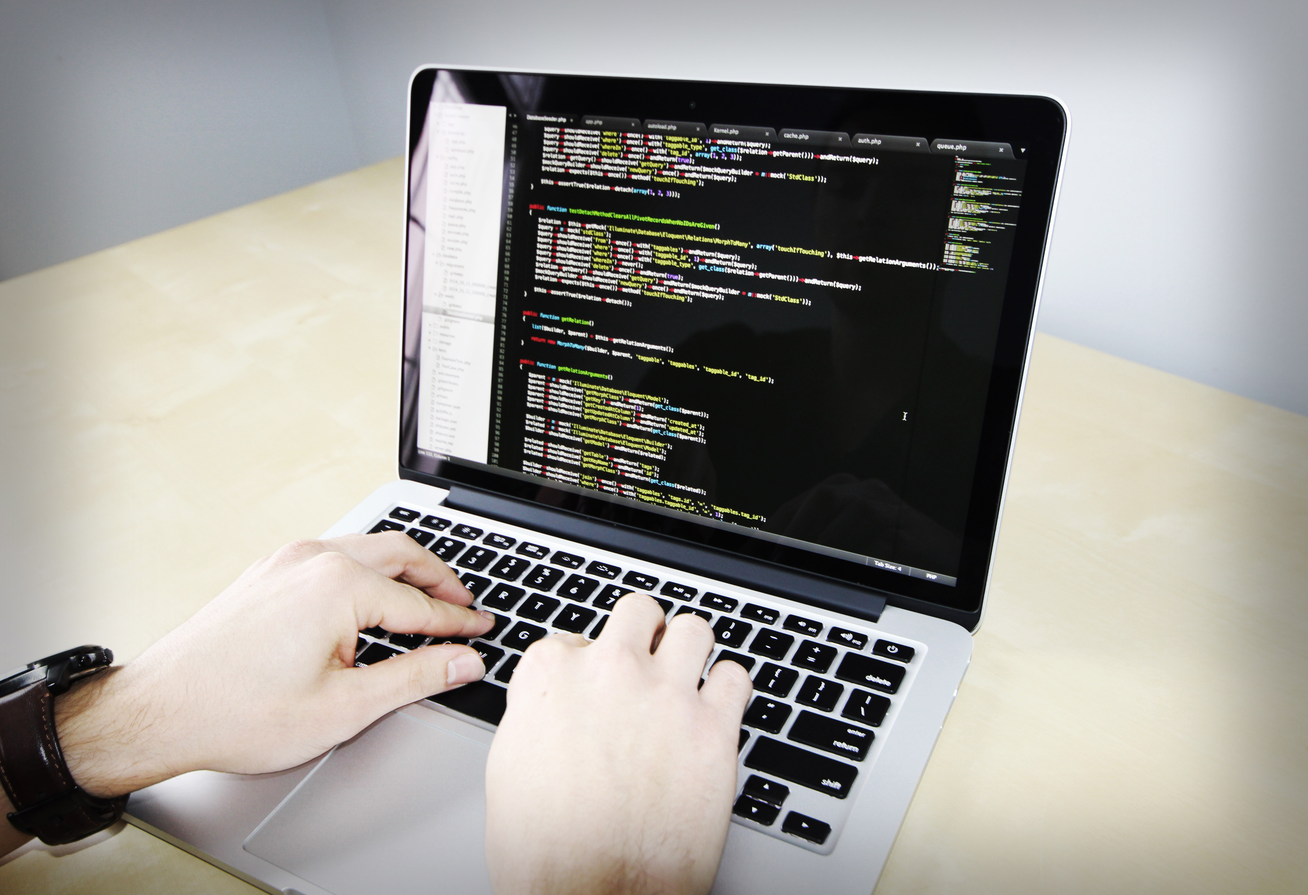
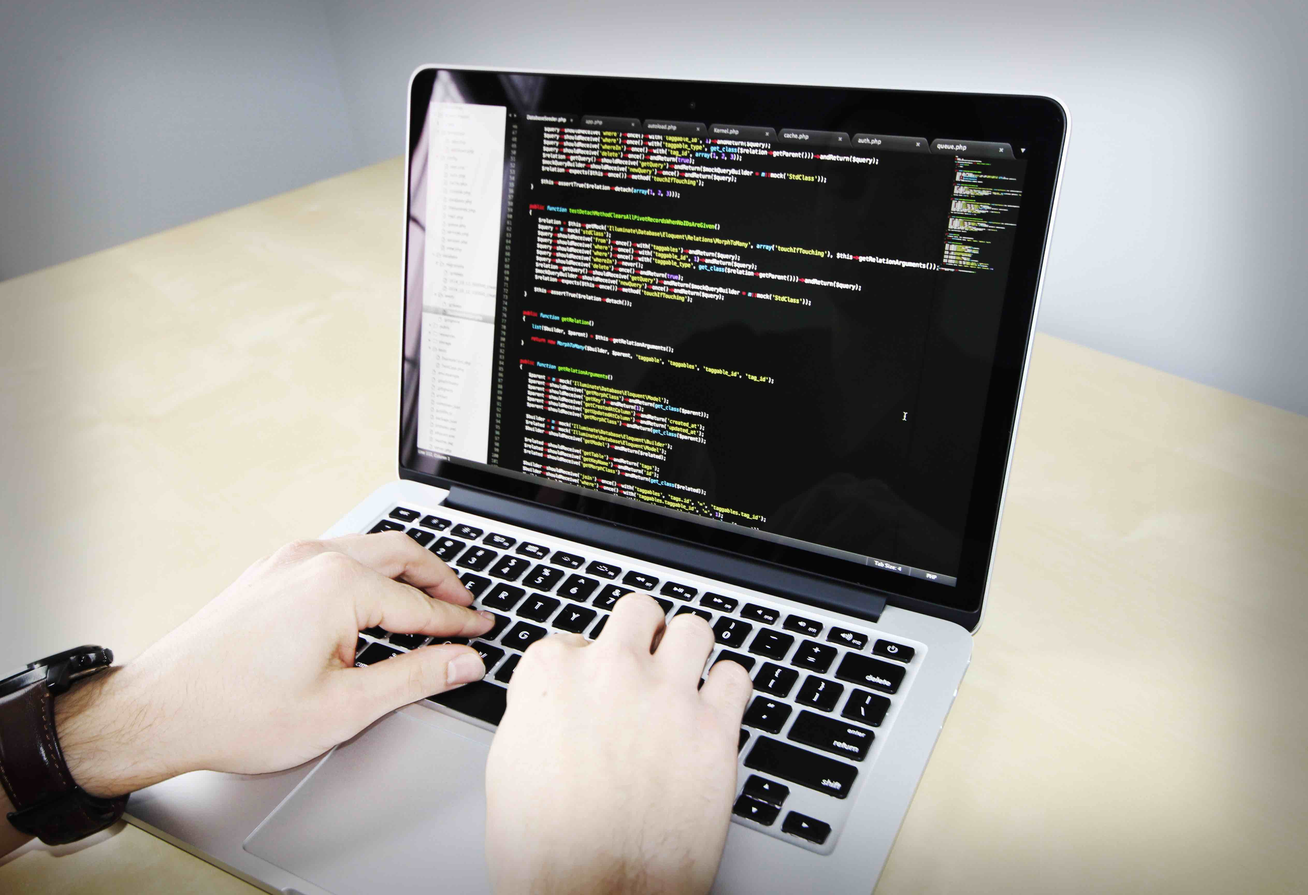
Minimize size of bg images, fixes md listing with showdown, fixes in web book

Changed region(s): [[0.4662, 0.4375, 0.5284, 0.5], [0.4973, 0.5312, 0.5284, 0.5625]]

diff --git a/webbook.html b/webbook.html
@@ -66,6 +66,16 @@
   ga('send', 'pageview');
 
 </script>
+<style>
+ul li {
+   list-style-type: disc;
+   list-style-position: inside;
+}
+ol li {
+   list-style-type: decimal;
+   list-style-position: inside;
+}
+</style>
 </head>
 
 
@@ -105,8 +115,8 @@
         <li><a href="index.html#poll">Poll</a></li>
         <li><a href="index.html#offerings">Offerings</a></li>
         <li><a href="index.html#contact">Contact</a></li>
-        <li><a href="webbook.html">About</a></li>
-        <li><a href="webbook.html">Web Book</a></li>
+        <li><a href="webbook.html#1">About</a></li>
+        <li><a href="webbook.html#1">Web Book</a></li>
         <li><a href="ecosystem.html">Ecosystem &amp; Docs</a></li>
         <li><a href="releasenotes.html">Releases</a></li>
         <li><a href="https://www.surveymonkey.com/r/VLGKQBL" target="_blank">Survey*</a></li>
@@ -119,14 +129,14 @@
 
   <div class="container">
       <div class="row">
-        <div class="col-md-3">
+          <div class="col-md-3">
           <ul class="nav nav-pills nav-stacked" id="menu">
-            <li id="link1"><a href="#">What is S-CASE</a></li>
-            <li id="link2"><a href="#">Getting started</a></li>
-            <li id="link3"><a href="#">Requirements Modeling</a></li>
-            <li id="link4"><a href="#">Web Service Composition</a></li>
-            <li id="link5"><a href="#">Code Generation</a></li>
-            <li id="link6"><a href="#">Deployment</a></li>
+            <li id="link1"><a href="#1">What is S-CASE</a></li>
+            <li id="link2"><a href="#2">Getting started</a></li>
+            <li id="link3"><a href="#3">Requirements Modeling</a></li>
+            <li id="link4"><a href="#4">Web Service Composition</a></li>
+            <li id="link5"><a href="#5">Code Generation</a></li>
+            <li id="link6"><a href="#6">Deployment</a></li>
           </ul>
         </div>
         <div class="col-md-9 main">
@@ -192,7 +202,7 @@
   }
 
   hideContentDivs();
-  $('#page1').show();
+  $("#page"+window.location.hash.substr(1)).show();
   </script>
   <!-- END SUPPORT FOR MARKDOWN -->
 </section>

diff --git a/js/zerif.js b/js/zerif.js
@@ -6,13 +6,13 @@ $.vegas('slideshow', {
   backgrounds:[
     { src:'images/backgrounds/bg1.jpg', fade:1000 },
     { src:'images/backgrounds/bg2.jpg', fade:1000 },
-    { src:'images/backgrounds/bg3.jpg', fade:1000 }
+    { src:'images/backgrounds/bg1.jpg', fade:1000 }
   ]
 });
-      
-   
+
+
 /* =================================
-   LOADER                     
+   LOADER
 =================================== */
 // makes sure the whole site is loaded
 jQuery(window).load(function() {
@@ -47,14 +47,14 @@ $(document).ready(function() {
     scrollThreshold: 0.5,
     filter: ':not(.external)'
   });
-  
-  // Sticky Header - http://jqueryfordesigners.com/fixed-floating-elements/         
+
+  // Sticky Header - http://jqueryfordesigners.com/fixed-floating-elements/
   var top = $('#main-nav').offset().top - parseFloat($('#main-nav').css('margin-top').replace(/auto/, 0));
-  
+
   $(window).scroll(function (event) {
     // what the y position of the scroll is
     var y = $(this).scrollTop();
-    
+
     // whether that's below the form
     if (y >= top) {
       // if so, ad the fixed class
@@ -64,7 +64,7 @@ $(document).ready(function() {
       $('#main-nav').removeClass('fixed');
     }
   });
-  
+
 });
 
 /*---------------------------------------*/
@@ -114,7 +114,7 @@ var scrollAnimationTime = 1200,
         }, scrollAnimationTime, scrollAnimation, function () {
             window.location.hash = target;
         });
-    });   
+    });
 
 
 /* =================================
@@ -204,8 +204,8 @@ $(document).ready(function(){
     $(window).scroll(function() {
       var yPos = -($window.scrollTop() / $bgobj.data('speed'));
       var coords = '50% '+ yPos + 'px';
-      $bgobj.css({ 
-        backgroundPosition: coords 
+      $bgobj.css({
+        backgroundPosition: coords
       });
     });
   });
@@ -256,6 +256,3 @@ $(".skill2").knob({
 =================================== */
 
 new WOW().init();
-
-
-

diff --git a/releasenotes.html b/releasenotes.html
@@ -66,6 +66,12 @@
   ga('send', 'pageview');
 
 </script>
+<style>
+li {
+   list-style-type: disc;
+   list-style-position: inside;
+}
+</style>
 </head>
 
 
@@ -105,8 +111,8 @@
       <li><a href="index.html#poll">Poll</a></li>
       <li><a href="index.html#offerings">Offerings</a></li>
       <li><a href="index.html#contact">Contact</a></li>
-      <li><a href="webbook.html">About</a></li>
-      <li><a href="webbook.html">Web Book</a></li>
+      <li><a href="webbook.html#1">About</a></li>
+      <li><a href="webbook.html#1">Web Book</a></li>
       <li><a href="ecosystem.html">Ecosystem &amp; Docs</a></li>
       <li><a href="releasenotes.html">Releases</a></li>
       <li><a href="https://www.surveymonkey.com/r/VLGKQBL" target="_blank">Survey*</a></li>

diff --git a/index.html b/index.html
@@ -106,8 +106,8 @@
         <li><a href="index.html#poll">Poll</a></li>
         <li><a href="index.html#offerings">Offerings</a></li>
         <li><a href="index.html#contact">Contact</a></li>
-        <li><a href="webbook.html">About</a></li>
-        <li><a href="webbook.html">Web Book</a></li>
+        <li><a href="webbook.html#1">About</a></li>
+        <li><a href="webbook.html#1">Web Book</a></li>
         <li><a href="ecosystem.html">Ecosystem &amp; Docs</a></li>
         <li><a href="releasenotes.html">Releases</a></li>
         <li><a href="https://www.surveymonkey.com/r/VLGKQBL" target="_blank">Survey*</a></li>

diff --git a/ecosystem.html b/ecosystem.html
@@ -105,8 +105,8 @@
       <li><a href="index.html#poll">Poll</a></li>
       <li><a href="index.html#offerings">Offerings</a></li>
       <li><a href="index.html#contact">Contact</a></li>
-      <li><a href="webbook.html">About</a></li>
-      <li><a href="webbook.html">Web Book</a></li>
+      <li><a href="webbook.html#1">About</a></li>
+      <li><a href="webbook.html#1">Web Book</a></li>
       <li><a href="ecosystem.html">Ecosystem &amp; Docs</a></li>
       <li><a href="releasenotes.html">Releases</a></li>
       <li><a href="https://www.surveymonkey.com/r/VLGKQBL" target="_blank">Survey*</a></li>

diff --git a/migrationguide.html b/migrationguide.html
@@ -104,8 +104,8 @@
       <li><a href="index.html#poll">Poll</a></li>
       <li><a href="index.html#offerings">Offerings</a></li>
       <li><a href="index.html#contact">Contact</a></li>
-      <li><a href="webbook.html">About</a></li>
-      <li><a href="webbook.html">Web Book</a></li>
+      <li><a href="webbook.html#1">About</a></li>
+      <li><a href="webbook.html#1">Web Book</a></li>
       <li><a href="ecosystem.html">Ecosystem &amp; Docs</a></li>
       <li><a href="releasenotes.html">Releases</a></li>
       <li><a href="https://www.surveymonkey.com/r/VLGKQBL" target="_blank">Survey*</a></li>

diff --git a/webbookfolder/deployment.md b/webbookfolder/deployment.md
@@ -21,7 +21,7 @@ your machine to the VM (manually)  by simply using basic command like:
 So, this should trigger post-receive hook on the git in the master git on the VM.
 The trigger will automatically:
 
-1. Configure Postgres user’s password, port and puts the password in an environment variable called: PASSWD (The password here is generated randomly using `pwgen`)
-2. Postgres is restarted
-3. Builds the code and war file is placed in jetty webapps.
-4. Restarts the jetty.
+  1. Configure Postgres user’s password, port and puts the password in an environment variable called: PASSWD (The password here is generated randomly using `pwgen`)
+  2. Postgres is restarted
+  3. Builds the code and war file is placed in jetty webapps.
+  4. Restarts the jetty.
